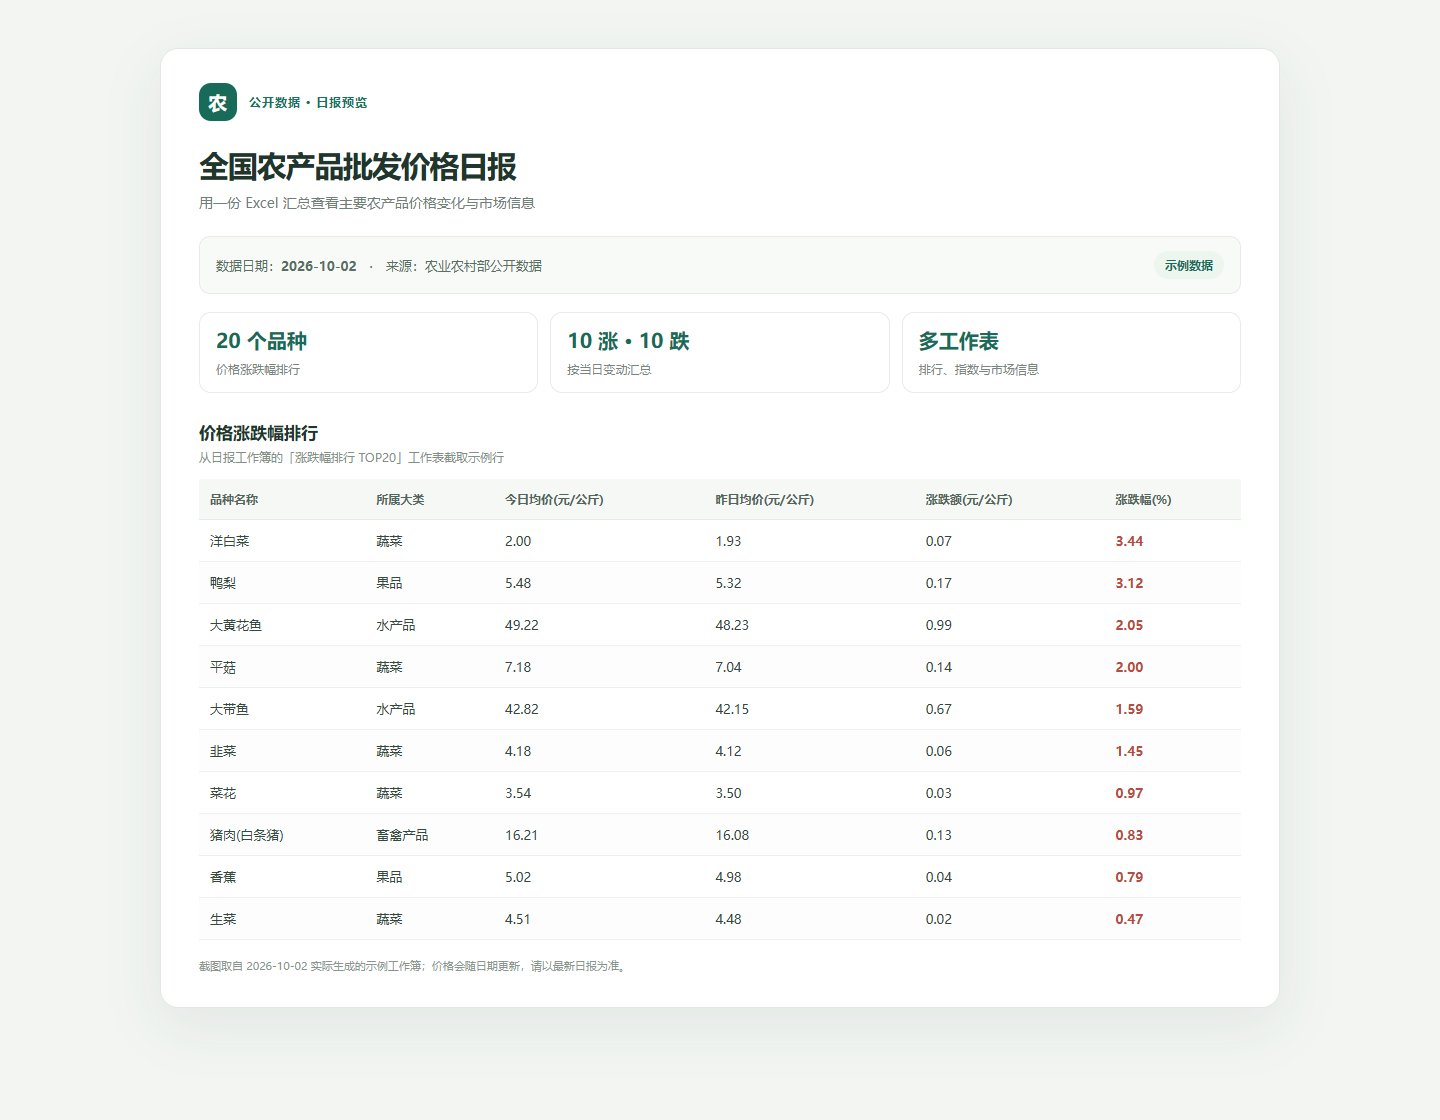
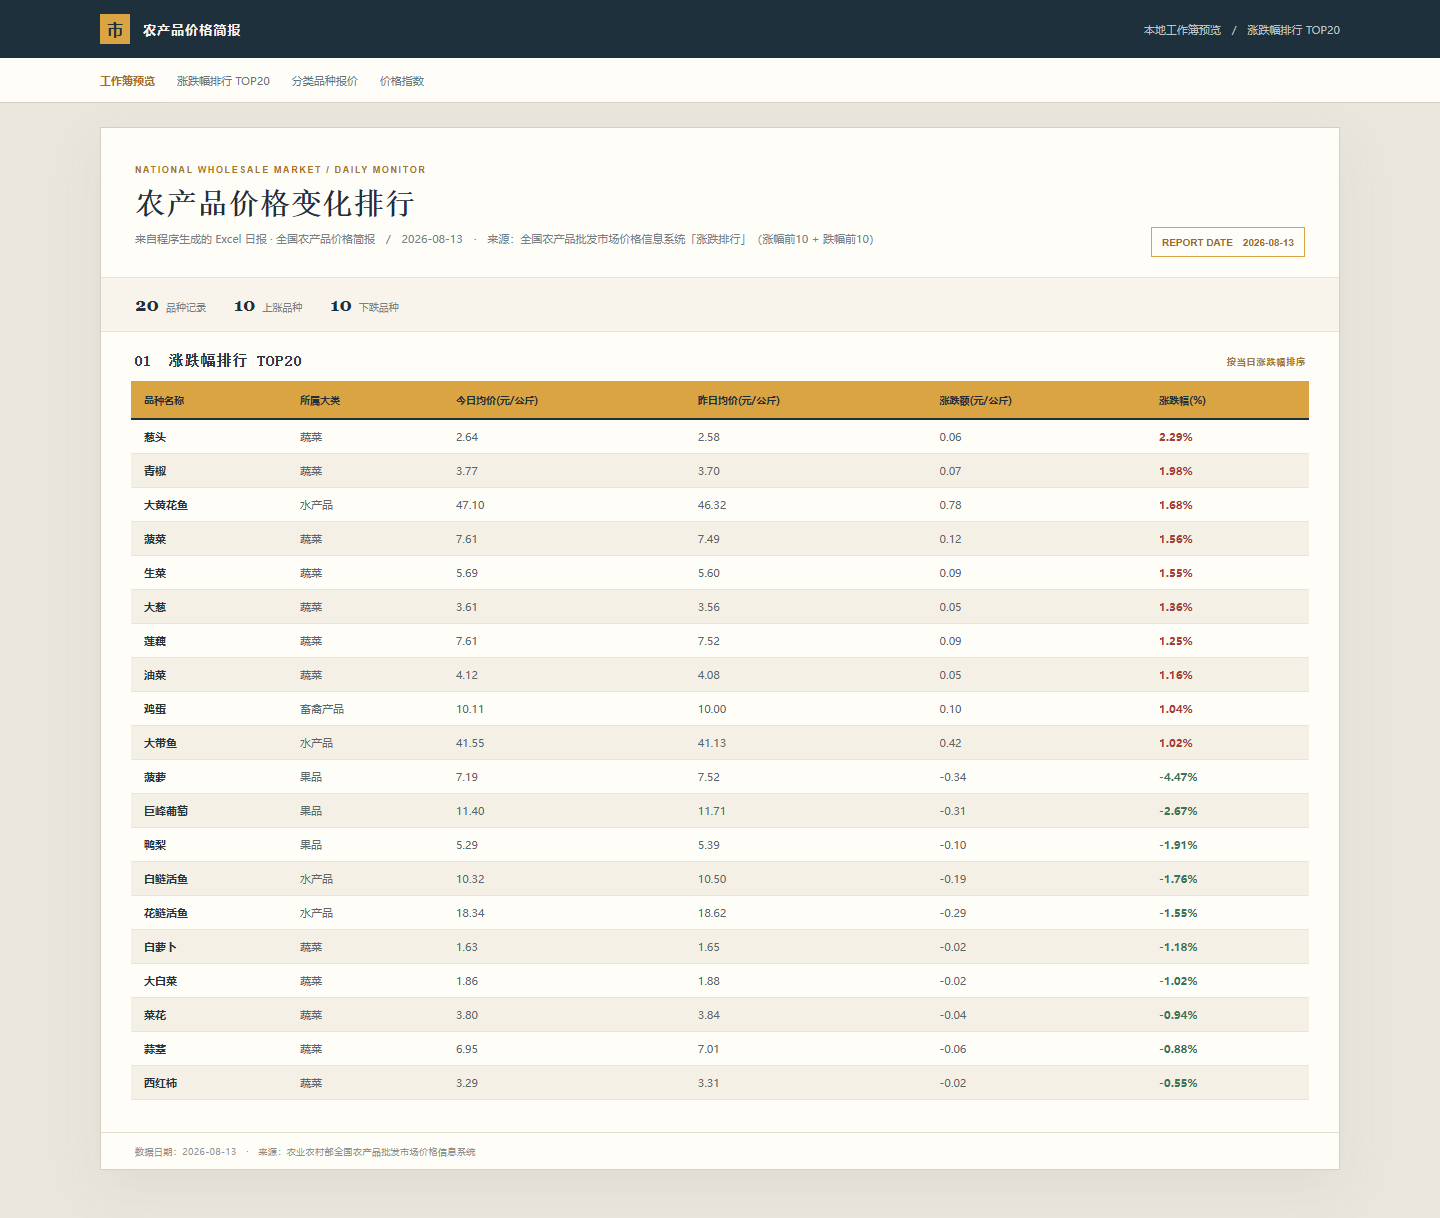
Restyle market report workbook

diff --git a/report.py b/report.py
@@ -1,38 +1,16 @@
 # -*- coding: utf-8 -*-
-"""report.py —— Excel 报表生成层
-
-把解析好的数据写成一份带格式的 Excel 日报：
-  - 多工作表：涨跌幅排行 / 分类品种批发价 / 价格指数 / 分类指数 / 报送市场
-  - 表头加粗、带底色，列宽自动调整，前两行冻结（方便滚动查看）
-  - 文件名带数据日期，例如：农产品批发价格日报_2026-08-13.xlsx
-
-用到的库：pandas（把数据组织成表格）+ openpyxl（写 Excel 并加格式）
-"""
+"""Excel 报表生成层：把公开批发价格整理成可筛选的市场简报。"""
 import pandas as pd
-
-import config
 
 
 def build_excel(output_path, report_date, sheets):
-    """把多个工作表的数据一次性写进一个 Excel 文件。
-
-    参数：
-      output_path：输出文件路径（由 main.py 拼接好）
-      report_date：数据日期字符串（如 "2026-08-13"），写进标题行
-      sheets：{工作表名: (列表数据, 备注)} 的有序字典，
-              列表数据会被 pandas 转成表格，备注写在表头上一行。
-    """
-    # 创建一个 Excel 写入器，engine="openpyxl" 表示用 openpyxl 引擎（支持格式）
+    """写入多工作表 Excel 日报，并为每张表应用一致的编辑部式版面。"""
     with pd.ExcelWriter(output_path, engine="openpyxl") as writer:
-        # 逐个工作表写入
-        for index, (sheet_name, (rows, note)) in enumerate(sheets.items()):
-            # 列表转成 DataFrame（pandas 的"表格"对象）
+        for sheet_name, (rows, note) in sheets.items():
             frame = pd.DataFrame(rows)
-            # startrow=1：第 1 行空出来写"数据日期"标题
             frame.to_excel(writer, sheet_name=sheet_name, index=False, startrow=1)
             _format_sheet(writer, sheet_name, frame, report_date, note)
 
-        # 如果没有任何工作表（数据全为空），写一个提示页，保证文件不是空文件
         if not sheets:
             pd.DataFrame({"提示": ["本次没有抓取到任何数据"]}).to_excel(
                 writer, sheet_name="空报表", index=False
@@ -42,74 +20,124 @@ def build_excel(output_path, report_date, sheets):
 
 
 def _format_sheet(writer, sheet_name, frame, report_date, note):
-    """给某个工作表加格式：标题行、表头样式、列宽、冻结窗格。"""
-    worksheet = writer.sheets[sheet_name]
+    """把标题、筛选表头、交替行底色和涨跌提示应用到单张工作表。"""
+    from openpyxl.formatting.rule import CellIsRule
+    from openpyxl.styles import Alignment, Border, Font, PatternFill, Side
+    from openpyxl.utils import get_column_letter
 
-    # ---- 第 1 行：报表标题（数据日期 + 备注说明）----
-    title = f"数据日期：{report_date}"
-    if note:
-        title += f"　｜　{note}"
-    worksheet.cell(row=1, column=1, value=title)
-    # 标题加粗、放大一点、给个浅色底
-    title_cell = worksheet.cell(row=1, column=1)
-    title_cell.font = _font(bold=True, size=11, color="1F4E79")
-    # 把标题行占用的宽度合并起来（合并到最后一列），视觉上更像报表标题
+    worksheet = writer.sheets[sheet_name]
+    navy = "182A38"
+    amber = "D9A441"
+    ink = "263742"
+    muted = "66747A"
+    ivory = "FFFDFA"
+    stripe = "F5F0E5"
+    grid = "E8E1D4"
+    positive = "A63E34"  # 国内行情表常用红色表示上涨
+    negative = "39745B"  # 绿色表示下跌
     max_col = max(len(frame.columns), 1)
+    max_row = len(frame) + 2
+    thin_rule = Side(style="thin", color=grid)
+    amber_rule = Side(style="medium", color=amber)
+
+    worksheet.sheet_view.showGridLines = False
+    worksheet.sheet_properties.tabColor = amber
+
+    title = f"全国农产品价格简报　/　{report_date}"
+    if note:
+        title += f"　·　{note}"
+    for column in range(1, max_col + 1):
+        cell = worksheet.cell(row=1, column=column)
+        cell.fill = PatternFill("solid", fgColor=navy)
+        cell.border = Border(bottom=amber_rule)
+    title_cell = worksheet.cell(row=1, column=1)
+    title_cell.value = title
+    title_cell.font = Font(name="微软雅黑", size=14, bold=True, color="FFFFFF")
+    title_cell.alignment = Alignment(horizontal="left", vertical="center", indent=1)
     if max_col > 1:
         worksheet.merge_cells(start_row=1, start_column=1, end_row=1, end_column=max_col)
+    worksheet.row_dimensions[1].height = 33
 
-    # ---- 第 2 行：表头（加粗 + 深色底 + 白字）----
-    for col_index, column_name in enumerate(frame.columns, start=1):
-        cell = worksheet.cell(row=2, column=col_index)
-        cell.font = _font(bold=True, color="FFFFFF")
-        cell.fill = _fill("2E75B6")  # 深蓝色底
-        cell.alignment = _center()
+    for column, column_name in enumerate(frame.columns, start=1):
+        cell = worksheet.cell(row=2, column=column)
+        cell.font = Font(name="微软雅黑", size=10, bold=True, color=navy)
+        cell.fill = PatternFill("solid", fgColor=amber)
+        cell.alignment = Alignment(horizontal="center", vertical="center", wrap_text=True)
+        cell.border = Border(bottom=Side(style="medium", color=navy))
+    worksheet.row_dimensions[2].height = 27
 
-    # ---- 数据行：数字列统一保留两位小数，让表格更整齐 ----
-    for row_index in range(3, 3 + len(frame)):
-        for col_index, column_name in enumerate(frame.columns, start=1):
-            cell = worksheet.cell(row=row_index, column=col_index)
-            if "元/公斤" in column_name or "(%)" in column_name or "指数" in column_name:
-                # 数字列：设置两位小数的显示格式
-                cell.number_format = "0.00"
+    for row in range(3, max_row + 1):
+        row_fill = ivory if row % 2 else stripe
+        worksheet.row_dimensions[row].height = 23
+        for column, column_name in enumerate(frame.columns, start=1):
+            cell = worksheet.cell(row=row, column=column)
+            is_numeric = isinstance(cell.value, (int, float)) and not isinstance(cell.value, bool)
+            cell.font = Font(
+                name="微软雅黑", size=10,
+                color=ink if is_numeric else muted,
+            )
+            cell.fill = PatternFill("solid", fgColor=row_fill)
+            cell.alignment = Alignment(
+                horizontal="right" if is_numeric else "left",
+                vertical="center",
+            )
+            cell.border = Border(bottom=thin_rule)
+            if is_numeric:
+                if "(%)" in str(column_name) or "涨跌幅" in str(column_name):
+                    cell.number_format = '0.00"%"'
+                elif "元/公斤" in str(column_name):
+                    cell.number_format = "0.00"
+                elif "指数" in str(column_name):
+                    cell.number_format = "0.00"
+                elif isinstance(cell.value, float):
+                    cell.number_format = "#,##0.00"
 
-    # ---- 列宽：按"表头长度"和"该列内容最大长度"自动调整 ----
-    for col_index, column_name in enumerate(frame.columns, start=1):
-        # pandas 从第 3 行开始放数据（前面空了两行），逐行找最长的字符串
-        max_length = len(str(column_name))
-        for row_index in range(3, 3 + len(frame)):
-            value = worksheet.cell(row=row_index, column=col_index).value
+    if len(frame.columns):
+        last_column = get_column_letter(len(frame.columns))
+        worksheet.auto_filter.ref = f"A2:{last_column}{max_row}"
+
+    for column, column_name in enumerate(frame.columns, start=1):
+        longest = len(str(column_name))
+        for row in range(3, max_row + 1):
+            value = worksheet.cell(row=row, column=column).value
             if value is not None:
-                # 中文字符占两个显示宽度，所以长度按 2 倍算
-                text = str(value)
-                length = sum(2 if ord(ch) > 127 else 1 for ch in text)
-                max_length = max(max_length, length)
-        # 宽度 = 最长内容 + 留白，同时设一个上限防止某列过宽
-        # 注：列字母用 get_column_letter 换算（第 1 行是合并单元格，不能直接读它）
-        from openpyxl.utils import get_column_letter
+                longest = max(
+                    longest,
+                    sum(2 if ord(char) > 127 else 1 for char in str(value)),
+                )
+        worksheet.column_dimensions[get_column_letter(column)].width = min(
+            max(longest + 3, 12), 38
+        )
 
-        worksheet.column_dimensions[get_column_letter(col_index)].width = min(max_length + 2, 60)
+        if "涨跌幅" in str(column_name) or "涨跌额" in str(column_name):
+            column_letter = get_column_letter(column)
+            price_range = f"{column_letter}3:{column_letter}{max_row}"
+            worksheet.conditional_formatting.add(
+                price_range,
+                CellIsRule(
+                    operator="greaterThan",
+                    formula=["0"],
+                    fill=PatternFill("solid", fgColor="F8E4DF"),
+                    font=Font(color=positive, bold=True),
+                ),
+            )
+            worksheet.conditional_formatting.add(
+                price_range,
+                CellIsRule(
+                    operator="lessThan",
+                    formula=["0"],
+                    fill=PatternFill("solid", fgColor="E6F0E7"),
+                    font=Font(color=negative, bold=True),
+                ),
+            )
 
-    # ---- 冻结窗格：滚动数据时，标题和表头始终可见 ----
     worksheet.freeze_panes = "A3"
+    worksheet.print_title_rows = "1:2"
+    worksheet.page_setup.orientation = "landscape"
+    worksheet.page_setup.fitToWidth = 1
+    worksheet.page_setup.fitToHeight = 0
+    worksheet.sheet_properties.pageSetUpPr.fitToPage = True
 
 
-def _font(bold=False, size=10, color="000000"):
-    """生成 openpyxl 的字体对象（避免在代码里反复写一长串）。"""
-    from openpyxl.styles import Font
-
-    return Font(name="微软雅黑", size=size, bold=bold, color=color)
-
-
-def _fill(color):
-    """生成 openpyxl 的填充对象（给单元格上底色）。"""
-    from openpyxl.styles import PatternFill
-
-    return PatternFill(start_color=color, end_color=color, fill_type="solid")
-
-
-def _center():
-    """生成居中对齐样式。"""
-    from openpyxl.styles import Alignment
-
-    return Alignment(horizontal="center", vertical="center")
+if __name__ == "__main__":
+    print("此模块由 main.py 调用，不建议单独运行。")

diff --git a/tests/test_report_styling.py b/tests/test_report_styling.py
@@ -1,0 +1,42 @@
+import tempfile
+import unittest
+from pathlib import Path
+
+from openpyxl import load_workbook
+
+import report
+
+
+class ReportStylingTests(unittest.TestCase):
+    def test_report_sheet_has_bulletin_layout_and_filterable_price_rows(self):
+        with tempfile.TemporaryDirectory() as directory:
+            output_path = Path(directory) / "daily.xlsx"
+            report.build_excel(
+                output_path,
+                "2026-10-03",
+                {
+                    "涨跌幅排行": (
+                        [
+                            {"品种": "番茄", "涨跌幅(%)": 2.5},
+                            {"品种": "白菜", "涨跌幅(%)": -1.2},
+                        ],
+                        "全国市场价格变化",
+                    )
+                },
+            )
+
+            worksheet = load_workbook(output_path)["涨跌幅排行"]
+
+            self.assertEqual(worksheet.freeze_panes, "A3")
+            self.assertEqual(worksheet.auto_filter.ref, "A2:B4")
+            self.assertFalse(worksheet.sheet_view.showGridLines)
+            self.assertTrue(worksheet["A1"].fill.fgColor.rgb.endswith("182A38"))
+            self.assertEqual(worksheet["A1"].font.color.rgb, "00FFFFFF")
+            self.assertTrue(worksheet["A2"].fill.fgColor.rgb.endswith("D9A441"))
+            self.assertTrue(worksheet["A3"].fill.fgColor.rgb.endswith("FFFDFA"))
+            self.assertTrue(worksheet["A4"].fill.fgColor.rgb.endswith("F5F0E5"))
+            self.assertEqual(len(worksheet.conditional_formatting), 1)
+
+
+if __name__ == "__main__":
+    unittest.main()

diff --git a/README.md b/README.md
@@ -6,7 +6,7 @@
 
 ## 日报示例
 
-下图是程序生成的工作簿内容预览，数据日期为 2026-10-02，摘自「涨跌幅排行 TOP20」工作表。
+下图是程序生成的工作簿内容预览，使用仓库内的历史样例数据（2026-08-13），摘自「涨跌幅排行 TOP20」工作表。
 
 ![农产品批发价格日报示例，展示价格涨跌排行](docs/screenshots/agri-price-preview.png)
 
